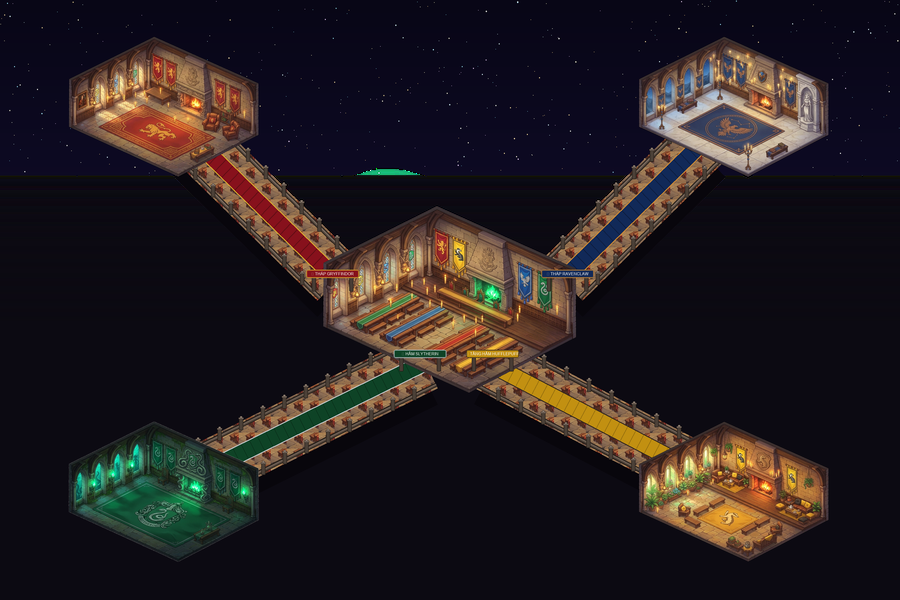
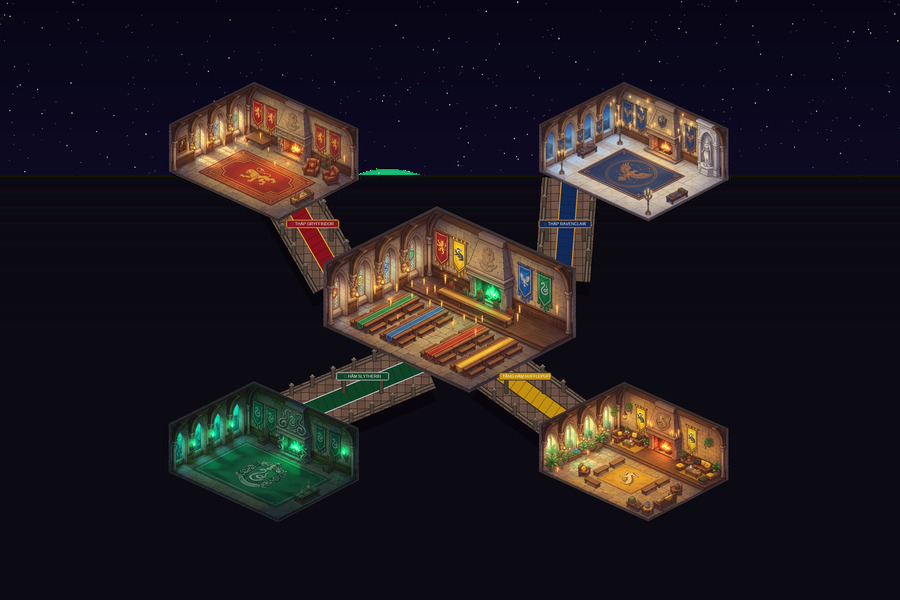
fix: replace floor texture with clean castle flagstones and compact corridors by 50%

Changed region(s): [[0.0622, 0.57, 0.9333, 0.93], [0.5911, 0.06, 0.9333, 0.51], [0.0622, 0.06, 0.4044, 0.51]]

diff --git a/client/src/scenes/hogwarts/RoomDefinitions.ts b/client/src/scenes/hogwarts/RoomDefinitions.ts
@@ -12,17 +12,17 @@ export const HOGWARTS_WORLD_WIDTH = 3600
 export const HOGWARTS_WORLD_HEIGHT = 2400
 
 export const GH_OFFSET = { x: 1112, y: 816 }
-export const GRY_OFFSET = { x: 140, y: 140 }
-export const SLY_OFFSET = { x: 140, y: 1680 }
-export const RAV_OFFSET = { x: 2420, y: 140 }
-export const HUF_OFFSET = { x: 2420, y: 1680 }
+export const GRY_OFFSET = { x: 540, y: 320 }
+export const SLY_OFFSET = { x: 540, y: 1520 }
+export const RAV_OFFSET = { x: 2020, y: 320 }
+export const HUF_OFFSET = { x: 2020, y: 1520 }
 
 export const ROOM_SPAWNS: Record<HogwartsRoomId, { x: number; y: number }> = {
   great_hall: { x: 1800, y: 1450 },
-  gryffindor: { x: 650, y: 550 },
-  slytherin: { x: 650, y: 2090 },
-  ravenclaw: { x: 2930, y: 550 },
-  hufflepuff: { x: 2930, y: 2090 },
+  gryffindor: { x: 1050, y: 730 },
+  slytherin: { x: 1050, y: 1930 },
+  ravenclaw: { x: 2530, y: 730 },
+  hufflepuff: { x: 2530, y: 1930 },
 }
 
 export const ROOM_METADATA: Record<
@@ -37,10 +37,10 @@ export const ROOM_METADATA: Record<
 }
 
 export function getRoomAtPosition(x: number, y: number): HogwartsRoomId {
-  if (x < 1350) {
+  if (x < 1450) {
     return y < 1100 ? 'gryffindor' : 'slytherin'
   }
-  if (x > 2250) {
+  if (x > 2150) {
     return y < 1100 ? 'ravenclaw' : 'hufflepuff'
   }
   return 'great_hall'
@@ -78,17 +78,17 @@ export function setupWorldColliders(m: HogwartsRoomManager) {
   m.addStaticZoneCollider(gx + 690, gy + 560, 180, 14) // Gryffindor
   m.addStaticZoneCollider(gx + 820, gy + 625, 180, 14) // Slytherin
 
-  // 3. Gryffindor Hearth & Walls (Top-Left Wing: 140, 140)
-  m.addStaticZoneCollider(800, 410, 140, 100)
+  // 3. Gryffindor Hearth & Walls (Top-Left Wing: 540, 320)
+  m.addStaticZoneCollider(1200, 590, 140, 100)
 
-  // 4. Slytherin Serpent Hearth & Walls (Bottom-Left Wing: 140, 1680)
-  m.addStaticZoneCollider(800, 1950, 140, 100)
+  // 4. Slytherin Serpent Hearth & Walls (Bottom-Left Wing: 540, 1520)
+  m.addStaticZoneCollider(1200, 1790, 140, 100)
 
-  // 5. Ravenclaw Statue & Walls (Top-Right Wing: 2420, 140)
-  m.addStaticZoneCollider(3080, 410, 140, 100)
+  // 5. Ravenclaw Statue & Walls (Top-Right Wing: 2020, 320)
+  m.addStaticZoneCollider(2680, 590, 140, 100)
 
-  // 6. Hufflepuff Barrel Hearth & Walls (Bottom-Right Wing: 2420, 1680)
-  m.addStaticZoneCollider(3080, 1950, 140, 100)
+  // 6. Hufflepuff Barrel Hearth & Walls (Bottom-Right Wing: 2020, 1520)
+  m.addStaticZoneCollider(2680, 1790, 140, 100)
 }
 
 export function setupWorldChairs(m: HogwartsRoomManager) {
@@ -132,18 +132,18 @@ export function setupWorldChairs(m: HogwartsRoomManager) {
   ghChairs.forEach((p) => m.addInteractiveChair(p.x, p.y, p.dir, p.depth))
 
   // Gryffindor Armchairs
-  m.addInteractiveChair(830, 600, 'left', 600)
-  m.addInteractiveChair(920, 640, 'up', 640)
+  m.addInteractiveChair(1230, 780, 'left', 780)
+  m.addInteractiveChair(1320, 820, 'up', 820)
 
   // Slytherin Leather Chairs
-  m.addInteractiveChair(830, 2140, 'left', 2140)
-  m.addInteractiveChair(920, 2180, 'up', 2180)
+  m.addInteractiveChair(1230, 1980, 'left', 1980)
+  m.addInteractiveChair(1320, 2020, 'up', 2020)
 
   // Ravenclaw Library Chairs
-  m.addInteractiveChair(2750, 600, 'right', 600)
-  m.addInteractiveChair(2660, 640, 'up', 640)
+  m.addInteractiveChair(2350, 780, 'right', 780)
+  m.addInteractiveChair(2260, 820, 'up', 820)
 
   // Hufflepuff Hearth Chairs
-  m.addInteractiveChair(2750, 2140, 'right', 2140)
-  m.addInteractiveChair(2660, 2180, 'up', 2180)
+  m.addInteractiveChair(2350, 1980, 'right', 1980)
+  m.addInteractiveChair(2260, 2020, 'up', 2020)
 }

diff --git a/client/src/scenes/HogwartsRoomManager.ts b/client/src/scenes/HogwartsRoomManager.ts
@@ -91,7 +91,7 @@ export class HogwartsRoomManager {
 
     // 2. Lò sưởi Tháp Gryffindor (Ánh lửa ấm áp)
     const gryLight = this.scene.add
-      .image(800, 410, 'light_halo_warm')
+      .image(1200, 590, 'light_halo_warm')
       .setBlendMode(Phaser.BlendModes.ADD)
       .setDepth(3501)
       .setScale(2.2, 1.8)
@@ -100,7 +100,7 @@ export class HogwartsRoomManager {
 
     // 3. Lò sưởi Hầm Slytherin (Ánh sáng xanh ngọc lục bảo)
     const slyLight = this.scene.add
-      .image(800, 1950, 'light_halo_floo')
+      .image(1200, 1790, 'light_halo_floo')
       .setBlendMode(Phaser.BlendModes.ADD)
       .setDepth(3501)
       .setScale(2.2, 1.8)
@@ -109,7 +109,7 @@ export class HogwartsRoomManager {
 
     // 4. Đèn vòm Tháp Ravenclaw (Ánh sáng xanh thiên văn)
     const ravLight = this.scene.add
-      .image(3080, 410, 'light_halo_warm')
+      .image(2680, 590, 'light_halo_warm')
       .setBlendMode(Phaser.BlendModes.ADD)
       .setDepth(3501)
       .setScale(2.2, 1.8)
@@ -118,7 +118,7 @@ export class HogwartsRoomManager {
 
     // 5. Đèn vòm Tầng Hầm Hufflepuff (Ánh sáng vàng mật ong)
     const hufLight = this.scene.add
-      .image(3080, 1950, 'light_halo_warm')
+      .image(2680, 1790, 'light_halo_warm')
       .setBlendMode(Phaser.BlendModes.ADD)
       .setDepth(3501)
       .setScale(2.2, 1.8)

diff --git a/scripts/build_hub_and_spoke_final.py b/scripts/build_hub_and_spoke_final.py
@@ -1,9 +1,10 @@
 """
-Build Hub & Spoke Hogwarts Castle World Map (3600 x 2400 px)
-- Floor & architecture: 100% unified with Great Hall & 4 House Common Rooms (sampled directly from castle stone).
-- Removed all corridor candles/torches per user request.
-- Clean medieval gothic stone balustrades, carved stone pillars & finials.
-- Fully connected: corridors penetrate deeply into each room, zero black voids.
+Build Hub & Spoke Hogwarts Castle World Map (3600 x 2400 px) - Compact & Unified
+- Floor: Authentic medieval flagstone stone slabs (clean, zero table/bench artifacts).
+- Distances between 4 Houses and Great Hall narrowed down by ~50% for fast navigation.
+- Removed all candles/torches per user request.
+- Clean gothic stone balustrades with carved limestone finials.
+- Corridors penetrate deeply into each room, zero gaps, zero black cuts.
 """
 
 import os
@@ -25,11 +26,12 @@ SCALE = 0.75
 RW_SUB = int(1376 * SCALE)  # 1032
 RH_SUB = int(768 * SCALE)   # 576
 
-# 4 House Wings (Spokes)
-gry_x, gry_y = 140, 140
-sly_x, sly_y = 140, 1680
-rav_x, rav_y = 2420, 140
-huf_x, huf_y = 2420, 1680
+# 4 House Wings (Brought significantly closer to Great Hall)
+# Shifted towards center: delta_x = 400px, delta_y = 180px
+gry_x, gry_y = 540, 320
+sly_x, sly_y = 540, 1520
+rav_x, rav_y = 2020, 320
+huf_x, huf_y = 2020, 1520
 
 def get_clean_room(img, is_white=False):
     """Generates an accurate RGBA image with transparent background (no black/white boxes)."""
@@ -49,8 +51,33 @@ def get_clean_room(img, is_white=False):
     rgba.putalpha(mask_im)
     return rgba
 
+def generate_clean_flagstone_tile():
+    """Generates an authentic medieval castle stone flagstone tile (64x64) with zero artifacts."""
+    tile = Image.new('RGBA', (64, 64), (48, 36, 30, 255))
+    draw = ImageDraw.Draw(tile)
+    
+    # 4 distinct interlocking rectangular castle flagstones matching Great Hall floor palette
+    stones = [
+        (1, 1, 30, 29, (108, 82, 70)),
+        (33, 1, 62, 31, (98, 74, 62)),
+        (1, 32, 31, 62, (114, 86, 74)),
+        (34, 34, 62, 62, (104, 78, 66)),
+    ]
+    for x0, y0, x1, y1, col in stones:
+        draw.rectangle([x0, y0, x1, y1], fill=(*col, 255))
+        # Bevel highlight (top & left)
+        hl = (min(255, col[0] + 24), min(255, col[1] + 24), min(255, col[2] + 24), 255)
+        draw.line([x0, y0, x1, y0], fill=hl)
+        draw.line([x0, y0, x0, y1], fill=hl)
+        # Bevel shadow (bottom & right)
+        sh = (max(0, col[0] - 24), max(0, col[1] - 24), max(0, col[2] - 24), 255)
+        draw.line([x0, y1, x1, y1], fill=sh)
+        draw.line([x1, y0, x1, y1], fill=sh)
+        
+    return tile
+
 def build_map():
-    print(f"Building Unified Hogwarts Castle Map ({CW} x {CH} px)...")
+    print(f"Building Compact & Unified Hogwarts Castle Map ({CW} x {CH} px)...")
 
     # 1. Base Canvas with Starry Night Sky
     bg_night_path = os.path.join(BASE_DIR, 'client/public/assets/background/backdrop_night.png')
@@ -67,10 +94,8 @@ def build_map():
         alpha = int(min(255, (y - 700) / 600 * 240 + 15))
         draw.rectangle([0, y, CW, y + 1], fill=(12, 10, 18, alpha))
 
-    # 2. Sample Authentic Stone Floor Directly from Great Hall
-    gh_raw = Image.open(os.path.join(BASE_DIR, 'client/public/assets/map/great_hall_25d.png')).convert('RGBA')
-    # 64x64 clean stone flagstone tile from Great Hall floor
-    gh_tile = gh_raw.crop((540, 580, 604, 644)).convert('RGBA')
+    # 2. Pure Clean Castle Stone Flagstone Tile (Zero tables/benches/cloth)
+    gh_tile = generate_clean_flagstone_tile()
 
     # Load TrueType font for Vietnamese support
     font_path = '/System/Library/Fonts/Supplemental/Arial.ttf'
@@ -79,7 +104,7 @@ def build_map():
     font_banner = ImageFont.truetype(font_path, 16)
 
     # 3. Draw Grand Castle Corridors (Stone balustrades, NO CANDLES, authentic castle stone floor)
-    def draw_grand_corridor(p1, p2, width=200, carpet_color=(120, 20, 30), border_color=(210, 160, 40)):
+    def draw_grand_corridor(p1, p2, width=190, carpet_color=(120, 20, 30), border_color=(210, 160, 40)):
         x1, y1 = p1
         x2, y2 = p2
         dx = x2 - x1
@@ -101,11 +126,11 @@ def build_map():
         ]
         
         # 1. Bridge Drop Shadow (deep soft shadow underneath)
-        shadow_offset_y = 65
+        shadow_offset_y = 55
         shadow_pts = [(p[0], p[1] + shadow_offset_y) for p in poly_pts]
         draw.polygon(shadow_pts, fill=(8, 6, 12, 210))
         
-        # 2. Stone Walkway Mask & Textured Flagstone Fill (Identical to Great Hall floor)
+        # 2. Stone Walkway Mask & Textured Flagstone Fill (Identical to Great Hall stone palette)
         corridor_mask = Image.new('L', (CW, CH), 0)
         mask_draw = ImageDraw.Draw(corridor_mask)
         mask_draw.polygon(poly_pts, fill=255)
@@ -130,24 +155,24 @@ def build_map():
             curb_x2 = int(x2 + side * w_curb * nx)
             curb_y2 = int(y2 + side * w_curb * ny)
             
-            # Thick gothic carved limestone rail (matching castle wall stone palette)
+            # Thick gothic carved limestone rail
             draw.line([(curb_x1, curb_y1), (curb_x2, curb_y2)], fill=(42, 34, 28, 255), width=18)
             draw.line([(curb_x1, curb_y1), (curb_x2, curb_y2)], fill=(85, 72, 62, 255), width=10)
             draw.line([(curb_x1, curb_y1 - 2), (curb_x2, curb_y2 - 2)], fill=(128, 112, 100, 255), width=3)
             
-            # Carved stone pillars & baluster caps along the parapet (NO CANDLES/TORCHES)
-            p_steps = max(2, int(dist / 95))
+            # Carved stone pillars & baluster caps along the parapet (NO CANDLES)
+            p_steps = max(2, int(dist / 85))
             for p_s in range(1, p_steps):
                 t = p_s / p_steps
                 px = int(x1 + dx * t + side * w_curb * nx)
                 py = int(y1 + dy * t + side * w_curb * ny)
                 
                 # Stone pillar shaft
-                draw.rounded_rectangle([px - 8, py - 28, px + 8, py + 18], radius=3,
+                draw.rounded_rectangle([px - 8, py - 26, px + 8, py + 16], radius=3,
                                        fill=(75, 64, 55, 255), outline=(38, 30, 24, 255), width=2)
-                # Carved stone top finial cap
-                draw.rectangle([px - 10, py - 32, px + 10, py - 26], fill=(120, 105, 94, 255), outline=(42, 34, 28, 255))
-                draw.ellipse([px - 5, py - 38, px + 5, py - 30], fill=(140, 125, 112, 255), outline=(42, 34, 28, 255))
+                # Carved stone finial cap
+                draw.rectangle([px - 10, py - 30, px + 10, py - 24], fill=(120, 105, 94, 255), outline=(42, 34, 28, 255))
+                draw.ellipse([px - 5, py - 36, px + 5, py - 28], fill=(140, 125, 112, 255), outline=(42, 34, 28, 255))
 
         # C. Velvet Carpet Runner down the corridor center (width = 68px)
         c_half = 34
@@ -166,7 +191,7 @@ def build_map():
         draw.line([carpet_pts[3], carpet_pts[2]], fill=(*border_color, 255), width=4)
         
         # Cross-stripes for rich textile depth
-        stripe_steps = max(2, int(dist / 36))
+        stripe_steps = max(2, int(dist / 32))
         for s in range(1, stripe_steps):
             t = s / stripe_steps
             sx = int(x1 + dx * t)
@@ -179,31 +204,32 @@ def build_map():
             draw.line([(sx1, sy1), (sx2, sy2)], fill=dark_stripe, width=3)
 
     # 4. Draw the 4 Corridors FIRST (Connecting deeply into room floor coordinates)
-    # Spoke 1: Great Hall (1350, 1120) -> Gryffindor Tower (780, 560)
+    # Spoke 1: Great Hall (1350, 1120) -> Gryffindor Tower (1120, 720)
     draw_grand_corridor(
-        (1350, 1120), (780, 560),
-        width=200, carpet_color=(135, 18, 28), border_color=(220, 175, 45)
+        (1350, 1120), (1120, 720),
+        width=190, carpet_color=(135, 18, 28), border_color=(220, 175, 45)
     )
 
-    # Spoke 2: Great Hall (1700, 1450) -> Slytherin Dungeon (750, 1920)
+    # Spoke 2: Great Hall (1700, 1450) -> Slytherin Dungeon (1120, 1690)
     draw_grand_corridor(
-        (1700, 1450), (750, 1920),
-        width=200, carpet_color=(15, 68, 38), border_color=(195, 200, 205)
+        (1700, 1450), (1120, 1690),
+        width=190, carpet_color=(15, 68, 38), border_color=(195, 200, 205)
     )
 
-    # Spoke 3: Great Hall (2250, 1120) -> Ravenclaw Tower (2820, 560)
+    # Spoke 3: Great Hall (2250, 1120) -> Ravenclaw Tower (2280, 720)
     draw_grand_corridor(
-        (2250, 1120), (2820, 560),
-        width=200, carpet_color=(18, 42, 88), border_color=(210, 140, 50)
+        (2250, 1120), (2280, 720),
+        width=190, carpet_color=(18, 42, 88), border_color=(210, 140, 50)
     )
 
-    # Spoke 4: Great Hall (1950, 1450) -> Hufflepuff Basement (2850, 1920)
+    # Spoke 4: Great Hall (1950, 1450) -> Hufflepuff Basement (2280, 1690)
     draw_grand_corridor(
-        (1950, 1450), (2850, 1920),
-        width=200, carpet_color=(195, 145, 18), border_color=(52, 40, 30)
+        (1950, 1450), (2280, 1690),
+        width=190, carpet_color=(195, 145, 18), border_color=(52, 40, 30)
     )
 
     # 5. Load and Process the 5 Rooms with Genuine Alpha Masks
+    gh_raw = Image.open(os.path.join(BASE_DIR, 'client/public/assets/map/great_hall_25d.png')).convert('RGBA')
     gry_raw = Image.open(os.path.join(MAP_V2_DIR, 'gryffindor_common_room_25d.png')).convert('RGBA')
     sly_raw = Image.open(os.path.join(MAP_V2_DIR, 'slytherin_common_room_25d.png')).convert('RGBA')
     rav_raw = Image.open(os.path.join(MAP_V2_DIR, 'ravenclaw_common_room_25d.png')).convert('RGBA')
@@ -226,10 +252,10 @@ def build_map():
 
     # 8. Grand Gothic Portal Archways at Corridor Entrances (NO CANDLES)
     portals = [
-        (1330, 1140, '🦁 THÁP GRYFFINDOR', (135, 18, 28), (220, 175, 45)),
-        (1680, 1460, '🐍 HẦM SLYTHERIN', (15, 68, 38), (195, 200, 205)),
-        (2270, 1140, '🦅 THÁP RAVENCLAW', (18, 42, 88), (210, 140, 50)),
-        (1970, 1460, '🦡 TẦNG HẦM HUFFLEPUFF', (195, 145, 18), (52, 40, 30)),
+        (1250, 940, '🦁 THÁP GRYFFINDOR', (135, 18, 28), (220, 175, 45)),
+        (1450, 1550, '🐍 HẦM SLYTHERIN', (15, 68, 38), (195, 200, 205)),
+        (2260, 940, '🦅 THÁP RAVENCLAW', (18, 42, 88), (210, 140, 50)),
+        (2100, 1550, '🦡 TẦNG HẦM HUFFLEPUFF', (195, 145, 18), (52, 40, 30)),
     ]
 
     for px, py, text, bg_col, border_col in portals:
@@ -256,15 +282,15 @@ def build_map():
 
     # 9. Save Output Map & Previews
     world.convert('RGB').save(OUTPUT_PATH, format='PNG', optimize=True)
-    print(f"Unified Hogwarts Map saved successfully at {OUTPUT_PATH}!")
+    print(f"Compact Hogwarts Map saved successfully at {OUTPUT_PATH}!")
     print(f"File size: {os.path.getsize(OUTPUT_PATH) / (1024 * 1024):.2f} MB")
 
     preview = world.resize((900, 600), Image.Resampling.LANCZOS)
     preview.convert('RGB').save(PREVIEW_PATH)
     print(f"Preview saved to {PREVIEW_PATH}")
 
-    # Zoomed crop around Slytherin corridor (x: 600..1850, y: 1300..2150)
-    crop_sly = world.crop((600, 1300, 1850, 2150)).convert('RGB')
+    # Zoomed crop around Slytherin corridor (x: 500..1800, y: 1300..2100)
+    crop_sly = world.crop((500, 1300, 1800, 2100)).convert('RGB')
     crop_sly.save(CROP_PREVIEW_PATH)
     print(f"Slytherin connection crop saved to {CROP_PREVIEW_PATH}")
 
